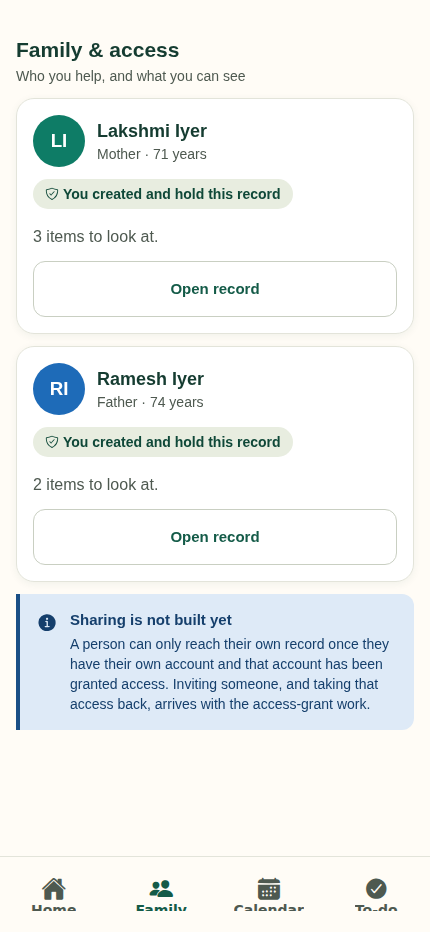
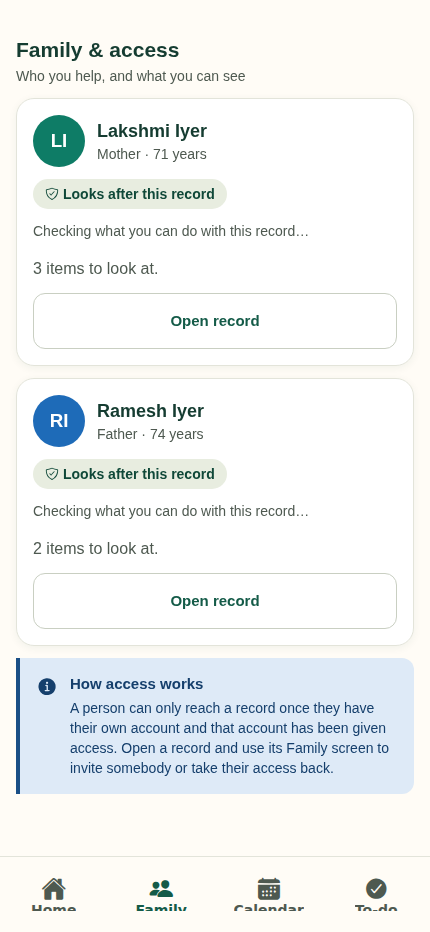
Record what was built, what was run, and what was not (KOO-15)
Completes the ledger. Every story has its state, its evidence and its open
gates, and the states are the ones the work actually supports rather than the
ones the commit list suggests.

Six stories are implemented locally. Six are partly implemented — the rules are
done as tested pure functions and the screens that use them are not, and each
says which half is missing. KOO-14 is blocked: the startup guard is real and
tested, and every cloud step needs an account this session does not have.

The numbers, at the end: `npm run verify` passes with 705 tests against 371 at
baseline. `SKIP_OCR_TESTS=1 npm run backend:verify` passes with 523 passed and
92 skipped, against 410 and 79. The 92 are named rather than left as a count —
they are every test needing the local stack, including the ADR-005 concurrency
and migration tests, and the image registry was unreachable so they are written
and unrun.

Neither end-to-end journey has been run. The pieces are unit tested; a document
travelling from a camera through upload, a worker and a provider to a second
account's screen has not happened, and no number of passing unit tests
substitutes for that. Demo ready is yes; synthetic cloud pilot and real-patient
pilot are both no, with the reasons listed.

Also updates the architecture progress: P2-05 is done as KOO-07, § 4's schema
has a third documented divergence, `/v1/parents` is gone, and Textract remains
an option rather than a migration.
[…]

Changed region(s): [[0.0302, 0.28, 0.9674, 0.8712], [0.0605, 0.1867, 0.6953, 0.3734], [0.907, 0.3112, 0.9372, 0.3734]]

diff --git a/docs/koode/PROGRESS.md b/docs/koode/PROGRESS.md
@@ -11,22 +11,22 @@ never hidden by closing the parent story.
 
 | Story | Status | Evidence / blocker |
 | --- | --- | --- |
-| KOO-00 | Implemented locally | Baseline reconciled against `ecb38d2`; see below |
-| KOO-01 | Implemented locally | Both shells built and captured; native device checks open |
-| KOO-02 | Implemented locally | Cognito wired and tested against a faked provider; live pool unverified |
-| KOO-03 | In progress | Model, policy, routes and migration done and tested; `/v1/parents` and `/v1/documents` not yet moved; DynamoDB semantics unrun here |
-| KOO-04 | Not started | |
-| KOO-05 | Not started | |
-| KOO-06 | Not started | |
-| KOO-07 | Not started | |
-| KOO-08 | Not started | |
-| KOO-09 | Not started | |
-| KOO-10 | Not started | |
-| KOO-11 | Not started | |
-| KOO-12 | Not started | |
-| KOO-13 | Not started | |
-| KOO-14 | Not started | Cloud execution/credentials must be verified in implementing session |
-| KOO-15 | Not started | |
+| KOO-00 | Verified | Baseline reconciled against `ecb38d2`; both gates re-run |
+| KOO-01 | Implemented locally | Both shells built; 24 web captures; **native device checks open** |
+| KOO-02 | Implemented locally | Cognito wired and tested against a faked provider; **live pool unverified** |
+| KOO-03 | Implemented locally | Model, policy, routes, invitations, migration; **DynamoDB semantics unrun here** |
+| KOO-04 | Implemented locally | Encrypted per-account vault, protected originals; **device checks open** |
+| KOO-05 | Implemented locally | Outbox, classification, pull with tombstones, honest status line |
+| KOO-06 | Implemented locally | Real create/presign/PUT/complete with resume; **local-stack protocol test unrun** |
+| KOO-07 | Implemented locally | Worker, leases, idempotency, DLQ, double grant/consent check |
+| KOO-08 | Partly implemented | Backend review/corrections/versioning done; **native review screen not rebuilt** |
+| KOO-09 | Partly implemented | Family overview reads real roles and pulled records; attention rules tested |
+| KOO-10 | Partly implemented | Schedule/dose model and safety rules done; **Today screen not yet wired to it** |
+| KOO-11 | Partly implemented | Observation model and visit assembly done; **entry screens not built** |
+| KOO-12 | Partly implemented | Per-device calendar mappings and content minimisation done; **follow-up CRUD not moved to `/v1`** |
+| KOO-13 | Partly implemented | Consent model enforced in the worker; DATA_HANDLING.md; **export/deletion endpoints not built** |
+| KOO-14 | Blocked | Startup safety guard implemented and tested; **every cloud step needs an account this session has none of** |
+| KOO-15 | Partly satisfied | Both gates run and recorded below; **no device, no cloud, no live provider journey** |
 
 ## Environment limitations in this session
 
@@ -313,9 +313,207 @@ and **were not run**: the Docker image registry is unreachable in this session,
 so the local stack cannot start. They are written and unrun, and the conditional
 writes they cover are the one part of this story a fake cannot demonstrate.
 
-### Next precise action
+### Outcome
 
-KOO-03d: move `/v1/parents` and `/v1/documents` onto patient partitions behind
-`requireAccess`, then build the sharing screens — named helpers, exact
-permissions, pending invitations, revocation — replacing the "not built yet"
-notices now on `app/care/family.tsx` and `app/me/family.tsx`.
+Done and committed as `22e1b11` and `06c947d`. `/v1/parents` was removed rather
+than kept alongside `/v1/patients` — two live layouts for the same thing is how
+one of them gets forgotten. Object keys moved from `owners/<accountId>/` to
+`patients/<patientId>/` so revoking a helper moves no bytes and deleting a
+record is one prefix.
+
+The sharing screens are built. `app/me/family.tsx` names helpers, states each
+one's permissions in plain words, issues an invitation whose token is shown
+once, and states what revocation does *not* reach.
+
+## KOO-04 — Encrypt and isolate records and original files on the phone
+
+**Status: Implemented locally.** Commit `94d4663`. ADR-006.
+
+| Criterion | State | Evidence |
+| --- | --- | --- |
+| Encrypted store, maintained implementation, compatible with the Expo build; SecureStore holds keys not payloads | Satisfied | `vaultCrypto.ts` (XChaCha20-Poly1305, `@noble/ciphers`); 17 tests including a wrong key failing rather than returning plausible data |
+| Originals protected separately; pending ones out of evictable cache | Satisfied | `protectedFiles.ts`; 12 tests. ADR-006 § 5 states plainly that the record key does **not** cover these files |
+| Everything partitioned by account; switching, sign-out and wipe expose nothing | Satisfied | `accountSwitch.test.ts`, 11 tests |
+| Migration verifies encrypted write/read before removing plaintext | Satisfied | 7 migration tests, including a write that reports success and stores nothing |
+| Backup inclusion/exclusion and restore behaviour; lost keys give an explicit recovery flow | Partly | `describeKeyLoss()` is asserted not to say "your records are lost"; **backup exclusion is unverified on a device** |
+| App lock honoured, and not described as encryption | Satisfied | New callout on `app/settings/security.tsx` |
+| Unuploaded originals survive restart; cleanup only after confirmed upload; bounded without silent deletion | Satisfied | Over the limit, capture refuses and says why — pending work is never evicted |
+
+**Defects found by writing the tests.** Two ordering bugs, both of which deleted
+data and both of which read as correct: sign-out cleared the store while the
+storage was still attached, so the persist middleware saved an empty vault over
+the account's records; and hydration cleared before rehydrating, writing an
+empty vault and then reading back what it had just written. The second only
+appeared to work because the write and the read raced.
+
+**Open:** keychain backing on real hardware, backup exclusion, Data Protection
+while locked. Expo Go is not evidence for any of these.
+
+## KOO-05 — Synchronize shared records with honest offline states
+
+**Status: Implemented locally.** Commits `96441d9`, `06c947d`.
+
+| Criterion | State | Evidence |
+| --- | --- | --- |
+| Reconcile with the backend; local writes alone do not update the shared record | Satisfied | `reconcile.ts` pulls; `outbox.ts` pushes; 9 + 40 tests |
+| Durable encrypted outbox, mutation ids, versions, bounded retries, backoff; a timeout after commit does not duplicate | Satisfied | The id is generated once and reused on every retry — asserted directly |
+| Saved locally / syncing / synced / failed / conflict distinguished; last sync shown | Satisfied | `SyncStatus`, 8 tests; the time only advances when something was acknowledged |
+| Tombstones so deletions are not resurrected | Satisfied | A record the server no longer returns is removed; `removedPatientIds` |
+| Stale writes rejected after revocation; inaccessible records cleared | Satisfied | 401/403/404 → `rejected`, never retried, never silently dropped |
+| Conflicts surfaced, not overwritten by a device clock | Satisfied | 409 → `conflict`, stops, needs a person |
+| Explicit retry controls; demo storage separate from live | Satisfied | `retryNow` keeps the attempt history so a hopeless change cannot be retried forever one tap at a time |
+
+## KOO-06 — Connect durable document capture to the existing upload API
+
+**Status: Implemented locally.** Commit `04502db`.
+
+| Criterion | State | Evidence |
+| --- | --- | --- |
+| Reuse capture/gallery/PDF; confirm patient, date, category; consistent limits | Satisfied | `MAX_PAGES` states where the number comes from |
+| create → presign → PUT → complete; server ids tracked, not local ones | Satisfied | 17 tests; a resumed upload does not create the document twice |
+| Progress and bytes persisted; expired URLs renewed; resume without duplicates | Satisfied | URLs are requested during the upload and deliberately never persisted |
+| Content type, page bounds, exact page set validated | Partly | Client-side bounds and type; **byte-level sniffing is the backend's `FileValidator`, unchanged and unrun against the stack here** |
+| Recoverable dispatch; a claimed key followed by queue failure leaves no stuck document | Satisfied | Completion is idempotent on the processing state itself |
+| Awaiting upload / uploading / queued / failed exposed separately | Satisfied | Session state plus processing status |
+| Grants enforced for URL issuance and completion; no identifiers in object names or logs | Satisfied | `requireAccess` before signing; keys carry no name or filename |
+
+**Removed rather than kept:** the demo build's simulated transfer. A progress
+bar reaching 100% having sent nothing is exactly the detail somebody
+demonstrates the app with and then believes.
+
+## KOO-07 — Process queued reports and persist validated AI summaries
+
+**Status: Implemented locally.** Commit `4d61092`.
+
+| Criterion | State | Evidence |
+| --- | --- | --- |
+| Queue consumer using the existing adapters and orchestrator; stage and failure persisted | Satisfied | `DocumentWorker.ts`, `npm run worker`; 24 tests |
+| Leases, idempotent processing, bounded retries, DLQ | Satisfied | The duplicate check asks the record, not a delivery log — the record is what survives a crash |
+| Record, grant and consent rechecked at execution **and before commit** | Satisfied | Both checks tested, including withdrawal mid-run |
+| Pipeline preserved; originals and identifiers never sent to the LLM | Satisfied | Orchestrator untouched |
+| Low confidence / unreadable surfaced as review-needed, not guessed | Satisfied | `ocr_failed` → `manual_review`, not retried |
+| Sarvam compatibility verified against docs, then a live synthetic call | **Blocked** | No credential. `SarvamSummaryProvider` still says its real behaviour is unverified |
+| Temporary derived files cleaned on success and failure | Satisfied | `finally`, asserted both ways |
+
+## KOO-08 — Review the original beside AI output and preserve corrections
+
+**Status: Partly implemented.** Commit `e8c5f17` (backend).
+
+| Criterion | State | Evidence |
+| --- | --- | --- |
+| Authorised viewing of every original page | Satisfied (API) | Short-lived read URLs, shorter than upload URLs |
+| Original / AI draft / correction / reviewed kept separate | Satisfied | The pipeline's output is written once and never edited |
+| Corrections with actor, time and version history | Satisfied | Append-only; changing your mind is another entry |
+| A new version invalidates review; concurrent edits conflict | Satisfied | 409 on a stale version, for both correction and review |
+| Unclear values stay unknown with visible warnings | Partly | Uncertainties are carried into visit preparation; **the review screen is not rebuilt** |
+| Follow-ups stay proposals; creating a task needs separate confirmation | Partly | Model enforces it; **the confirm-to-create UI is not built** |
+
+**Not done:** the native review screen. The API is complete and tested; the
+screen that puts the original beside the draft is the next slice.
+
+## KOO-09 to KOO-12 — the two journeys
+
+**Status: Partly implemented.** Commits `06c947d`, `253f378`, `e22041e`,
+`1f03a15`.
+
+What is done is the part that is hard to get right and easy to get wrong: the
+rules, as pure tested functions.
+
+- **KOO-09.** `attention.ts` decides what "needs attention" may mean —
+  administrative facts only, never the absence of one. The caregiver home and
+  family screens read real roles and pulled records.
+- **KOO-10.** `occurrences.ts`, 25 tests. A dose with nothing recorded is
+  `null`, never "missed". Two taps on one tablet make one event. Undo appends
+  and is marked, so "corrected to missed" stays distinguishable from "that was
+  undone". Times resolve in the patient's zone across a daylight-saving change.
+- **KOO-11.** `visitPreparation.ts`, 14 tests. Observations kept in the person's
+  own words with no severity scale; uncertainties carried forward rather than
+  dropped for a cleaner summary; a helper's note attributed as a helper's.
+- **KOO-12.** Per-device calendar mappings, and calendar entries that no longer
+  carry the record. Three existing tests asserted the old behaviour and were
+  replaced with the reason recorded beside them.
+
+**Not done:** the screens that use them. The parent's Today screen still renders
+the no-treatment state rather than reading `occurrences.ts`; observation entry,
+visit preparation and follow-up CRUD over `/v1` are not built.
+
+## KOO-13 — Privacy choices, export and deletion
+
+**Status: Partly implemented.** Commit `bcb9343`. `DATA_HANDLING.md`.
+
+Consent is three independent records with the notice version pinned, enforced in
+the worker before the provider call and again before the result is written. A
+missing answer is not permission. `DATA_HANDLING.md` records retention, the
+difference between leaving a family and deleting a record, and what deletion
+cannot reach.
+
+**Not done:** the export and deletion endpoints, and the consent store itself —
+`consentFor` is wired explicitly and returns nothing, which means not permitted,
+which is the safe direction to be incomplete in.
+
+## KOO-14 — Controlled cloud environment and operational recovery
+
+**Status: Blocked.** Commit `9f9fde5`. `DEPLOYMENT.md`.
+
+The startup guard is implemented and tested: production with no provider key,
+production against the local stack, and production at debug logging all refuse
+to boot. `DEPLOYMENT.md` picks CDK over SAM with the reason, lists what must
+exist, what must not ship, the content-free signals worth alarming on, and
+runbooks.
+
+**Every cloud step is blocked** on an account and authorisation this session
+does not have. None is marked complete.
+
+## KOO-15 — Demonstrate both journeys and record the release decision
+
+**Status: Partly satisfied.**
+
+### Gates actually run, at the end of this work
+
+| Command | Result |
+| --- | --- |
+| `npm run verify` | **pass** — typecheck, lint, **705 tests / 43 suites** (371 at baseline) |
+| `SKIP_OCR_TESTS=1 npm run backend:verify` | **pass** — **523 passed, 92 skipped** (410/79 at baseline) |
+| `npm run backend:verify` (no skip) | **fail** — the same 6 `tesseractOcr` network fetches as at baseline, unchanged and environmental |
+
+### What the 92 skipped backend tests are
+
+Not incidental. They include every test that needs the local stack: the
+`/v1` API end to end, the record repository's isolation tests, the ADR-005
+concurrency and migration tests, and PDF processing. **The Docker image
+registry is unreachable in this session, so the stack cannot start.** These
+tests are written and unrun, and the conditional writes they cover are the one
+part of KOO-03 a fake cannot demonstrate.
+
+### Readiness
+
+| Level | State |
+| --- | --- |
+| **Demo ready** | Yes, for the two shells and the design. The demonstration build seeds fictional records, cannot reach a server, and says so above the fold |
+| **Synthetic cloud pilot ready** | **No.** Requires the local stack and then a cloud environment; neither has been exercised |
+| **Real-patient pilot approved** | **No.** Requires everything above plus the privacy, provider, legal and operational gates in `DATA_HANDLING.md`, none of which is closed |
+
+### Journeys, honestly
+
+Neither end-to-end journey has been run. The pieces are implemented and unit
+tested; what has *not* happened is a single document travelling from a camera
+through upload, a worker, a provider and back to a second account's screen.
+That needs the local stack at minimum, and no amount of passing unit tests
+substitutes for it.
+
+## Resume checkpoint
+
+Next, in order:
+
+1. **Get the local stack running** in an environment with an image registry, and
+   run the four skipped integration suites. They are the highest-value unrun
+   evidence in the repository.
+2. **Wire the parent's Today screen** to `occurrences.ts`, and build the dose
+   controls. The rules are done and tested; the screen is not.
+3. **Rebuild the document review screen** against the correction API.
+4. **Build observation entry and visit preparation screens** over
+   `visitPreparation.ts`.
+5. **Move follow-up CRUD to `/v1`** and wire the calendar mappings into the
+   confirmation flow.
+6. **Build the consent store and the export/deletion endpoints.**
+7. Everything in `DEPLOYMENT.md` § "What is blocked", once there is an account.

diff --git a/docs/architecture/progress.md b/docs/architecture/progress.md
@@ -32,6 +32,8 @@ the intent and do not change as work lands. This file is the record.
 | P2-03a  | Identity port and local issuer            | Done — 2026-08-19                |
 | P2-05a  | The /v1 API: parents, documents, uploads  | Done — 2026-08-19                |
 | Phase 2 | Cloud platform                            | Building locally — see ADR-003   |
+| P2-05   | Processing worker                         | Done — 2026-09-08, as KOO-07     |
+| Koode   | KOO-00..15 (docs/koode)                   | In progress — see docs/koode/PROGRESS.md |
 
 Phase 1 remains **synthetic data only**. No step below has changed that.
 
@@ -1984,3 +1986,38 @@ confirm the shared-queue fix holds. Frontend untouched at 371.
   has never called `/v1`.
 - `fastify-plugin` was added and then removed when authentication became
   synchronous.
+
+
+## Koode — KOO-00 to KOO-15
+
+**8 September 2026.** A separate backlog, in `docs/koode/`, adding a shared
+family record and an individual parent experience. It supplements this plan
+rather than replacing it, and it does not mark anything here complete.
+
+Where the two overlap:
+
+- **P2-05, the processing worker, is done** — implemented as KOO-07. A document
+  no longer reaches `queued` and stays there. `npm run worker` runs it.
+- **§ 4's key schema has a third documented divergence.** Clinical items moved
+  from `USER#<ownerId>` to `PATIENT#<patientId>` partitions, with access as an
+  explicit grant. See ADR-005; the migration is additive and deletes nothing.
+- **Object keys moved** from `owners/<accountId>/` to `patients/<patientId>/`
+  for the same reason.
+- **`/v1/parents` is removed**, replaced by `/v1/patients`. Document routes now
+  name the patient in the path and check a grant before reading, writing or
+  signing.
+- **Textract remains a phase-2 option.** Tesseract is unchanged. Nothing in
+  this work is an OCR migration.
+
+Three new ADRs: 004 (mobile authentication against Cognito), 005 (patient
+identity and per-record access grants), 006 (on-device record encryption).
+
+Test counts at the end of that work: frontend **705** (was 371), backend **523
+passed with 92 skipped** under `SKIP_OCR_TESTS=1` (was 410/79). The skipped
+count grew because the new integration tests for ADR-005 need the local stack,
+which could not start in that session — the image registry was unreachable.
+They are written and unrun.
+
+Evidence, limitations and the resume checkpoint are in
+`docs/koode/PROGRESS.md`. Nothing there is recorded as verified that was not
+actually run.
